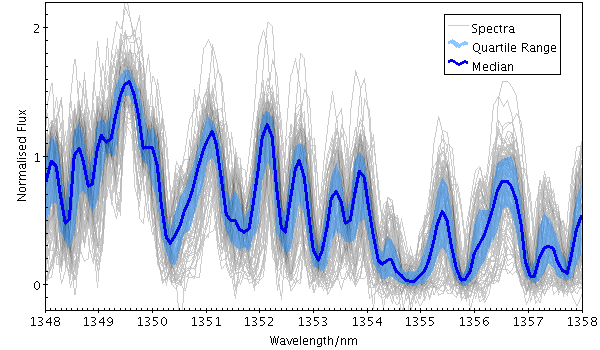
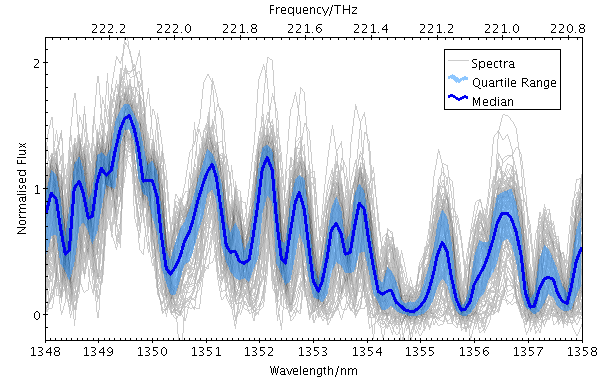
ttools: add secondary X/Y axis UI to plot2plane
plot2plane has new parameters x2func, x2label, y2func, y2label to
configure secondary axes.

Changed region(s): [[0.03, 0.0, 1.0, 1.0], [0.57, 0.9429, 0.6, 0.9714], [0.06, 0.0571, 0.09, 0.0857]]

diff --git a/ttools/src/main/uk/ac/starlink/ttools/plot2/geom/PlaneSurfaceFactory.java b/ttools/src/main/uk/ac/starlink/ttools/plot2/geom/PlaneSurfaceFactory.java
@@ -1,5 +1,6 @@
 package uk.ac.starlink.ttools.plot2.geom;
 
+import gnu.jel.CompilationException;
 import java.awt.Color;
 import java.awt.Rectangle;
 import java.awt.geom.Point2D;
@@ -7,6 +8,7 @@ import java.util.ArrayList;
 import java.util.Arrays;
 import java.util.List;
 import java.util.function.DoubleUnaryOperator;
+import uk.ac.starlink.ttools.jel.JELFunction;
 import uk.ac.starlink.ttools.plot.Range;
 import uk.ac.starlink.ttools.plot2.Axis;
 import uk.ac.starlink.ttools.plot2.Captioner;
@@ -25,8 +27,11 @@ import uk.ac.starlink.ttools.plot2.config.ConfigKey;
 import uk.ac.starlink.ttools.plot2.config.ConfigMap;
 import uk.ac.starlink.ttools.plot2.config.ConfigMeta;
 import uk.ac.starlink.ttools.plot2.config.DoubleConfigKey;
+import uk.ac.starlink.ttools.plot2.config.Specifier;
+import uk.ac.starlink.ttools.plot2.config.StringConfigKey;
 import uk.ac.starlink.ttools.plot2.config.StyleKeys;
 import uk.ac.starlink.ttools.plot2.config.SubrangeConfigKey;
+import uk.ac.starlink.ttools.plot2.config.TextFieldSpecifier;
 import uk.ac.starlink.ttools.plot2.data.DataStore;
 
 /**
@@ -85,6 +90,22 @@ public class PlaneSurfaceFactory
     /** Config key for Y axis text label.*/
     public static final ConfigKey<String> YLABEL_KEY =
         StyleKeys.createAxisLabelKey( "Y" );
+
+    /** Config key for secondary X axis function. */
+    public static final ConfigKey<JELFunction> X2FUNC_KEY =
+        createSecondaryAxisFunctionKey( "X" );
+
+    /** Config key for secondary Y axis function. */
+    public static final ConfigKey<JELFunction> Y2FUNC_KEY =
+        createSecondaryAxisFunctionKey( "Y" );
+
+    /** Config key for secondary X axis text label. */
+    public static final ConfigKey<String> X2LABEL_KEY =
+        createSecondaryAxisLabelKey( "X" );
+
+    /** Config key for secondary Y axis text label. */
+    public static final ConfigKey<String> Y2LABEL_KEY =
+        createSecondaryAxisLabelKey( "Y" );
 
     /** Config key for axis aspect ratio fix. */
     public static final ConfigKey<Double> XYFACTOR_KEY =
@@ -152,6 +173,119 @@ public class PlaneSurfaceFactory
     public static final ConfigKey<Boolean> YANCHOR_KEY =
         createAxisAnchorKey( "Y", false );
 
+    /**
+     * Creates a config key for a secondary axis function.
+     *
+     * @param   primaryAxisName   name of primary axis, for instance "X"
+     * @return  new config key
+     */
+    public static ConfigKey<JELFunction>
+            createSecondaryAxisFunctionKey( String primaryAxisName ) {
+        String axname = primaryAxisName.toLowerCase();
+        final String varName = axname;
+        final String secondaryEdge;
+        if ( "X".equals( primaryAxisName ) ) {
+            secondaryEdge = "top";
+        }
+        else if ( "Y".equals( primaryAxisName ) ) {
+            secondaryEdge = "right";
+        }
+        else {
+            secondaryEdge = null;
+        }
+        ConfigMeta meta =
+            new ConfigMeta( axname + "2func",
+                            "Secondary " + primaryAxisName + " Axis"
+                          + " f(" + axname + ")" );
+        meta.setStringUsage( "<function-of-" + axname + ">" );
+        meta.setShortDescription( "Function of " + axname
+                                + " mapping primary to secondary axis" );
+        meta.setXmlDescription( new String[] {
+            "<p>Defines a secondary " + primaryAxisName + " axis",
+            "in terms of the primary one.",
+            "If a secondary axis is defined in this way,",
+            "then the axis opposite the primary one",
+            ( secondaryEdge == null ? ""
+                                    : "(i.e. on the " + secondaryEdge
+                                                      + " side of the plot)" ),
+            "will be annotated with the appropriate tickmarks.",
+            "</p>",
+            "<p>The value of this parameter is an",
+            "<ref id='jel'>algebraic expression</ref> in terms of the variable",
+            "<code>" + varName + "</code> giving the value",
+            "on the secondary " + primaryAxisName + " axis",
+            "corresponding to a given value",
+            "on the primary " + primaryAxisName + " axis.",
+            "</p>",
+            "<p>For instance, if the primary " + primaryAxisName + " axis",
+            "represents flux in Jansky,",
+            "then supplying the expression",
+            "\"<code>2.5*(23-log10(" + varName + "))-48.6</code>\"",
+            "(or \"<code>janskyToAb(" + varName + ")</code>\")",
+            "would annotate the secondary " + primaryAxisName + " axis",
+            "as AB magnitudes.",
+            "</p>",
+            "<p>The function supplied should be monotonic",
+            "and reasonably well-behaved,",
+            "otherwise the secondary axis annotation may not work well.",
+            "The application will attempt to make a sensible decision",
+            "about whether to use linear or logarithmic tick marks.",
+            "</p>",
+        } );
+        return new ConfigKey<JELFunction>( meta, JELFunction.class, null ) {
+            public JELFunction stringToValue( String fexpr )
+                    throws ConfigException {
+                if ( fexpr == null || fexpr.trim().length() == 0 ) {
+                    return null;
+                }
+                try {
+                    return new JELFunction( varName, fexpr );
+                }
+                catch ( CompilationException e ) {
+                    throw new ConfigException( this,
+                                               "Expression \"" + fexpr + "\""
+                                             + " not a function of " + varName
+                                             + ": " + e.getMessage(), e );
+                }
+            }
+            public String valueToString( JELFunction func ) {
+                return func == null ? null : func.getExpression();
+            }
+            public Specifier<JELFunction> createSpecifier() {
+                return new TextFieldSpecifier<JELFunction>( this, null );
+            }
+        };
+    }
+
+    /**
+     * Returns a labelling config key for a secondary axis.
+     *
+     * @param  primaryAxisName  name of primary axis to which the
+     *                          secondary axis relates
+     * @return  new key
+     */
+    public static ConfigKey<String>
+            createSecondaryAxisLabelKey( String primaryAxisName ) {
+        String axName = primaryAxisName;
+        ConfigMeta meta =
+            new ConfigMeta( primaryAxisName.substring( 0, 1 ).toLowerCase()
+                          + "2label",
+                            "Secondary " + primaryAxisName + " Axis Label" );
+        meta.setStringUsage( "<text>" );
+        meta.setShortDescription( "Label for secondary " + primaryAxisName
+                                + " axis" );
+        meta.setXmlDescription( new String[] {
+            "<p>Provides a string that will label the secondary",
+            primaryAxisName,
+            "axis.",
+            "This appears on the opposite side of the plot to the",
+            primaryAxisName,
+            "axis itself.",
+            "</p>",
+        } );
+        return new StringConfigKey( meta, null );
+    }
+
     private final PlotMetric plotMetric_;
 
     /**
@@ -192,6 +326,10 @@ public class PlaneSurfaceFactory
             YFLIP_KEY,
             XLABEL_KEY,
             YLABEL_KEY,
+            X2FUNC_KEY,
+            Y2FUNC_KEY,
+            X2LABEL_KEY,
+            Y2LABEL_KEY,
             XYFACTOR_KEY,
             GRID_KEY,
             XCROWD_KEY,
@@ -211,10 +349,10 @@ public class PlaneSurfaceFactory
         boolean yflip = config.get( YFLIP_KEY );
         String xlabel = config.get( XLABEL_KEY );
         String ylabel = config.get( YLABEL_KEY );
-        DoubleUnaryOperator x2func = null;
-        DoubleUnaryOperator y2func = null;
-        String x2label = null;
-        String y2label = null;
+        DoubleUnaryOperator x2func = config.get( X2FUNC_KEY );
+        DoubleUnaryOperator y2func = config.get( Y2FUNC_KEY );
+        String x2label = config.get( X2LABEL_KEY );
+        String y2label = config.get( Y2LABEL_KEY );
         double xyfactor = config.get( XYFACTOR_KEY );
         boolean grid = config.get( GRID_KEY );
         double xcrowd = config.get( XCROWD_KEY );

diff --git a/ttools/src/main/uk/ac/starlink/ttools/build/Plot2Example.java b/ttools/src/main/uk/ac/starlink/ttools/build/Plot2Example.java
@@ -1694,6 +1694,8 @@ public class Plot2Example {
                 "*in=" + TName.XQ100,
                 "*xs=subWave", "*ys=multiply(subFlux,1./mean(subFlux))", null,
                 "*xlabel=Wavelength/nm", "*ylabel='Normalised Flux'", null,
+                "*x2func=SPEED_OF_LIGHT*1E9*1E-12/x",
+                "*x2label=Frequency/THz", null,
                 "layer1=lines", "shading1=density", "densemap1=greyscale", null,
                 "denseclip1=0.2,1", "densefunc1=linear",
                 "leglabel1=Spectra", null,
@@ -1704,7 +1706,7 @@ public class Plot2Example {
                 "*join_med=lines",
                 "*leglabel_med=Median", null,
                 "legend=true", "legpos=0.95,0.95", null,
-                "xpix=600", "ypix=350", null,
+                "xpix=600", "ypix=380", null,
                 "xmin=1348", "xmax=1358", "ymin=-0.2", "ymax=2.2",
             } ),
             createShadingExample( "flat", c, new String[ 0 ] ),
